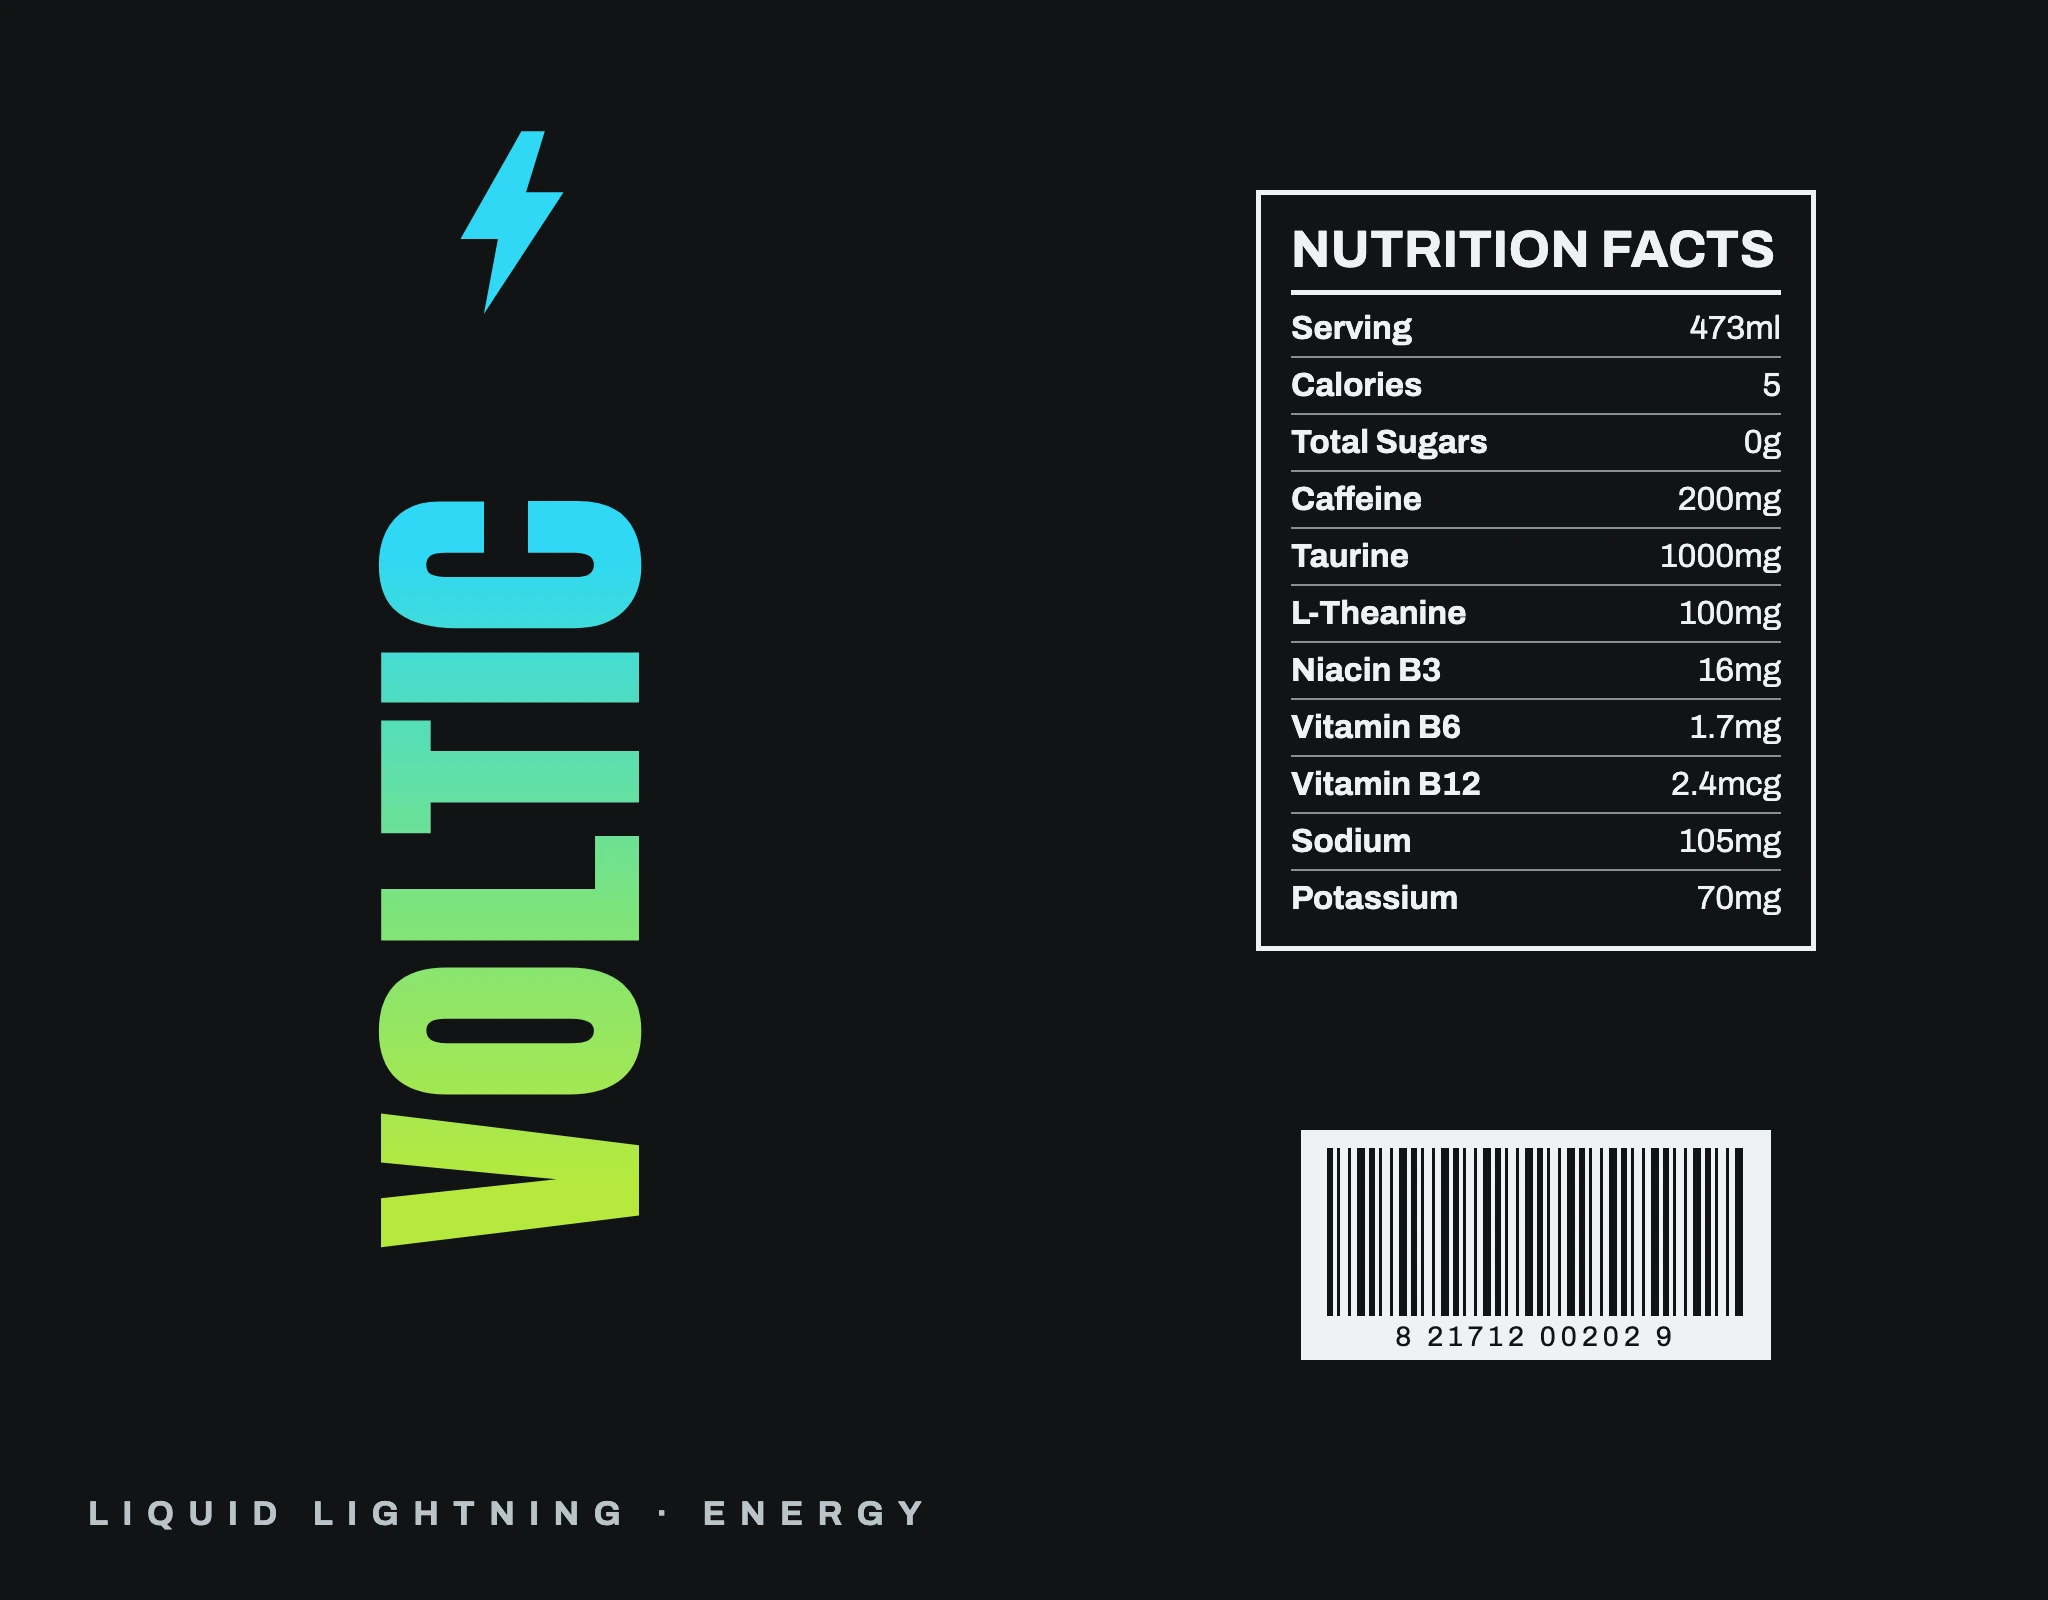
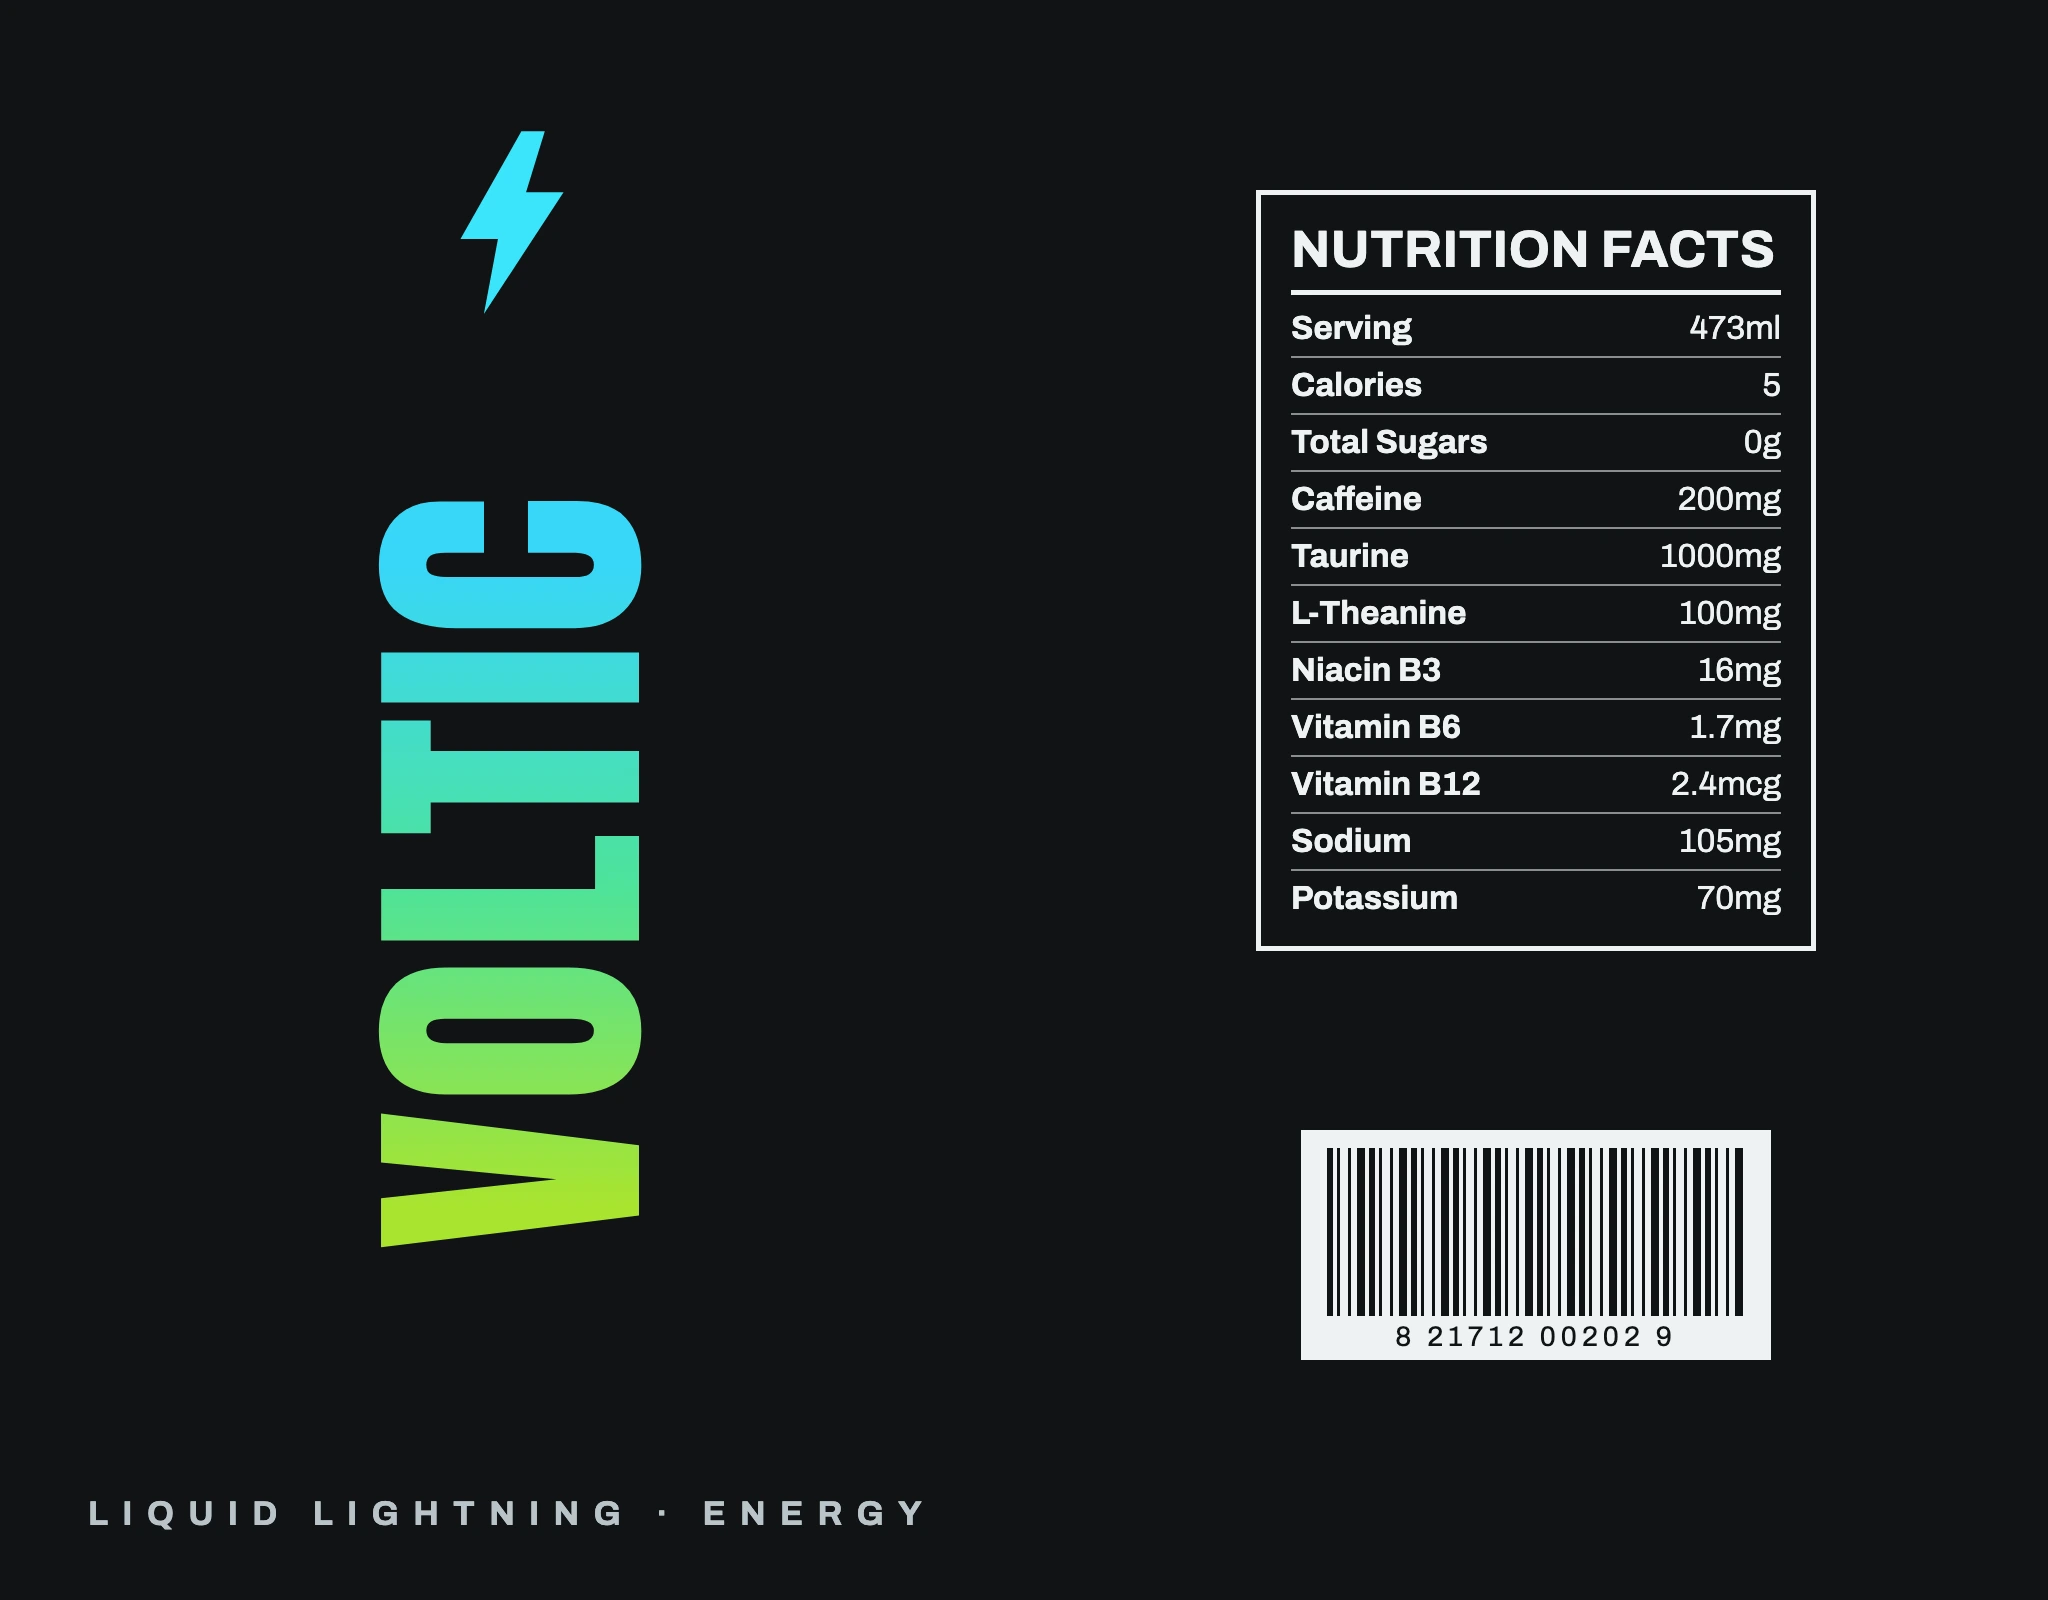
Match the 3D label colors to the hero photo
Gradient stops and bolt color sampled from the hero's actual pixels
(lime V -> mint -> ice-cyan C, bolt #3ae4fb), and the washout chased
to its root: the bright RoomEnvironment reflecting across the label.
Body envMapIntensity 0.22, clearcoat 0.3, emissive 0.42, exposure
0.95 — saturation now survives ACES.

Changed region(s): [[0.1875, 0.4688, 0.3125, 0.6875]]

diff --git a/src/can3d.js b/src/can3d.js
@@ -16,7 +16,7 @@ export function createCan3D(container) {
   renderer.setPixelRatio(Math.min(devicePixelRatio, 2));
   renderer.outputColorSpace = THREE.SRGBColorSpace;
   renderer.toneMapping = THREE.ACESFilmicToneMapping;
-  renderer.toneMappingExposure = 1.05;
+  renderer.toneMappingExposure = 0.95;
   container.appendChild(renderer.domElement);
   renderer.domElement.style.cssText = 'width:100%;height:100%;display:block';
 
@@ -29,8 +29,8 @@ export function createCan3D(container) {
   scene.environment = pmrem.fromScene(new RoomEnvironment(), 0.06).texture;
 
   // ── lights: the studio rig ────────────────────────────────────────────
-  scene.add(new THREE.AmbientLight(0x28323a, 0.55));
-  const key = new THREE.DirectionalLight(0xffffff, 0.5);
+  scene.add(new THREE.AmbientLight(0x28323a, 0.4));
+  const key = new THREE.DirectionalLight(0xffffff, 0.42);
   key.position.set(0.7, 1.6, 2.6);
   scene.add(key);
   const cyanRim = new THREE.DirectionalLight(0x2fd8f5, 1.55);
@@ -59,13 +59,14 @@ export function createCan3D(container) {
     map: label,
     emissiveMap: glow,
     emissive: 0xffffff,
-    emissiveIntensity: 0.55,
+    emissiveIntensity: 0.42,
     roughness: 0.46,
     metalness: 0.12,
-    clearcoat: 0.45,
     clearcoatRoughness: 0.4,
     bumpMap: drops,
     bumpScale: 0.6,
+    envMapIntensity: 0.22,
+    clearcoat: 0.3,
   });
   const darkMetal = new THREE.MeshStandardMaterial({ color: 0x15181a, roughness: 0.5, metalness: 0.6 });
   const silver = new THREE.MeshStandardMaterial({ color: 0xb9c2c6, roughness: 0.32, metalness: 1.0 });

diff --git a/tools/label.html b/tools/label.html
@@ -21,7 +21,8 @@
     position: absolute; left: 512px; top: 870px;
     transform: translate(-50%, -50%) rotate(-90deg);
     font-family: Anton; font-size: 300px; letter-spacing: 0.02em;
-    background: linear-gradient(90deg, #b7e93c 8%, #7de37d 45%, #2fd8f5 92%);
+    /* stops sampled from the hero photo's letters: lime V → mint → ice-cyan C */
+    background: linear-gradient(90deg, #a9e42f 6%, #4ee39a 48%, #38d6f8 90%);
     -webkit-background-clip: text; background-clip: text; color: transparent;
     white-space: nowrap;
   }
@@ -58,7 +59,7 @@
 <body>
   <div class="front">
     <svg class="bolt" width="150" height="210" viewBox="0 0 32 42">
-      <path d="M18 1 5 24h8l-3 16L27 14h-8l4-13z" fill="#2fd8f5"/>
+      <path d="M18 1 5 24h8l-3 16L27 14h-8l4-13z" fill="#3ae4fb"/>
     </svg>
     <div class="wordmark">VOLTIC</div>
     <div class="tagline">LIQUID LIGHTNING · ENERGY</div>
